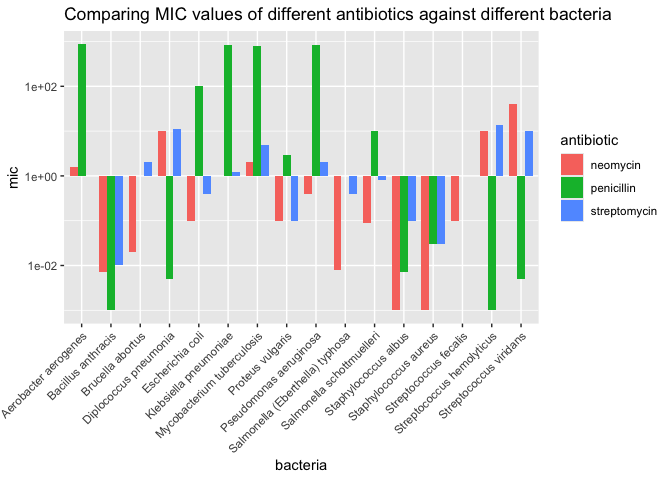
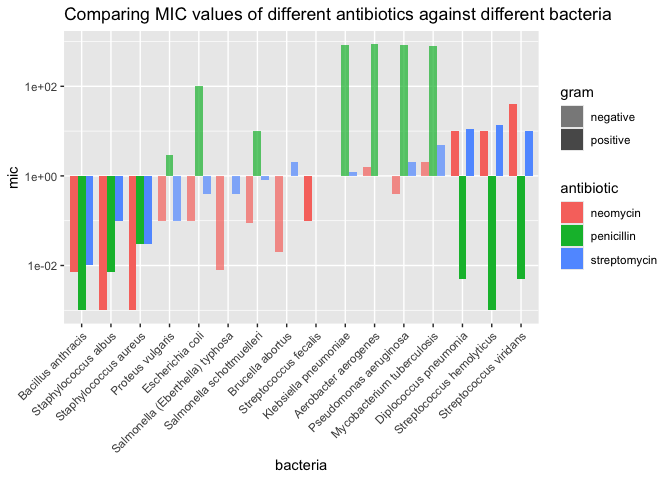
Revise Challenge 5

diff --git a/data-science-curriculum-build-2/challenges/c05-antibiotics-assignment.md b/data-science-curriculum-build-2/challenges/c05-antibiotics-assignment.md
@@ -181,8 +181,9 @@ is Gram positive or negative.
 
 ``` r
 df_antibiotics %>%
-  ggplot(aes(x = penicillin, y = streptomycin, size = neomycin, label = bacteria)) +
+  ggplot(aes(x = penicillin, y = streptomycin, size = neomycin, label = bacteria, color = gram)) +
   geom_point() +
+  scale_color_manual(values = c("#FC4E07", "#52854C")) +
   geom_text_repel(size = 3) +
   scale_x_log10() +
   scale_y_log10() +
@@ -205,10 +206,13 @@ your other visuals.
 df_q12 <- df_antibiotics %>% 
   pivot_longer(cols = c(penicillin, streptomycin, neomycin),
                names_to = "antibiotic",
-               values_to = "mic")
+               values_to = "mic") %>% 
+  mutate(bacteria = fct_reorder(bacteria, mic))
+
 
 df_q12 %>% 
-  ggplot(aes(fill = antibiotic, y= mic, x=bacteria)) +
+  ggplot(aes(fill = antibiotic, y= mic, x=bacteria, alpha = gram)) +
+  scale_alpha_manual(values = c("positive" = 1, "negative" = 0.7)) +
   scale_y_log10() +
   geom_bar(position="dodge", stat="identity", width = 0.8) +
   theme(axis.text.x = element_text(angle = 45, hjust = 1)) +
@@ -227,7 +231,11 @@ Note that your visual must be *qualitatively different* from *all* of
 your other visuals.
 
 ``` r
-df_antibiotics %>% 
+df_13 <- df_antibiotics %>% 
+  mutate(bacteria = fct_reorder(bacteria, penicillin))
+  
+
+df_13 %>% 
   ggplot(aes(x= bacteria, y = penicillin)) +
   geom_point() +
   theme(axis.text.x = element_text(angle = 45, hjust = 1)) +
@@ -256,8 +264,7 @@ df_long <- df_antibiotics %>%
 
 df_long %>% 
   ggplot(aes(x = antibiotic, y = mic, color = antibiotic)) + 
-  geom_boxplot() + 
-  facet_wrap(~antibiotic) + 
+  geom_boxplot() +
   scale_y_log10() +
   theme(legend.position = "none") + 
   labs(x = "Antibiotic", y = "MIC Values") +
@@ -276,12 +283,26 @@ Note that your visual must be *qualitatively different* from *all* of
 your other visuals.
 
 ``` r
-df_antibiotics %>%
-  ggplot(aes(fill = bacteria, x = gram)) + 
-  geom_bar(position = "stack") +
-  geom_text(stat = "count", aes(label = bacteria), position = position_stack(vjust = 0.5), color = "white") +
-  labs(y = "Count", x = "Gram Type") +
-  ggtitle("Comparing the Gram Types of Different bacteria")
+df_q15 <- df_antibiotics %>% 
+  pivot_longer(
+    cols = c(penicillin, streptomycin, neomycin), # Columns to pivot
+    names_to = "antibiotic",
+    values_to = "mic" 
+  )
+
+df_q15 %>% 
+  ggplot(aes(x = antibiotic, y = bacteria)) +
+  geom_tile(aes(fill = mic), color = "white") +
+  scale_fill_gradient(
+    trans = 'log10',                             
+    low = "blue", high = "red"                   
+  ) +
+  labs(
+    title = "Heatmap of MIC Values Across Antibiotics",
+    x = "Antibiotic",
+    y = "Bacteria",
+    fill = "MIC Value"
+  )
 ```
 
 ![](c05-antibiotics-assignment_files/figure-gfm/q1.5-1.png)<!-- -->
@@ -306,13 +327,15 @@ opportunity to think about why this is.**
 > bacteria of different genera and Gram stain?
 
 *Observations* - What is your response to the question above? - The most
-effective antibiotic appears to be neomycin - Which of your visuals
-above (1 through 5) is **most effective** at helping to answer this
-question? - The most effective visual to answer this question was Visual
-2. - Why? - I was able to analyze the effectiveness of each of the
-antibiotics by their position along the x and y axis for streptomycin
-and penicilin - for the third antibiotic i am able to determine the
-effectiveness based on the area of each of the points
+effective antibiotic appears to be neomycin - Streptomycin seems to be
+the next most effective antibiotic, while penicilin seems to be the
+least effective of the three - Which of your visuals above (1 through 5)
+is **most effective** at helping to answer this question? - The most
+effective visual to answer this question was Visual 2. - Why? - I was
+able to analyze the effectiveness of each of the antibiotics by their
+position along the x and y axis for streptomycin and penicilin - for the
+third antibiotic i am able to determine the effectiveness based on the
+area of each of the points
 
 #### Guiding Question 2
 
@@ -328,10 +351,13 @@ Diplococcus pneumoniae was renamed Streptococcus pneumoniae as it was
 found to be more associated with the streptococcus genus - Which of your
 visuals above (1 through 5) is **most effective** at helping to answer
 this question? - Visual 5 was most effective in helping me answer this
-question - Why? - The most common type of bacteria in this dataset that
-were gram positive were the Streptococcus bacteria - the Diplococcus
-pneumoniae bacteria is also gram positive, which means it shares traits
-with Streptococcus bacteria, possibly contributing to its renaming
+question - Why? - The Diplococcus pneumoniae seems to have more similar
+traits to other streptococcus bacteria, as exhibited in visuals 2, 3,
+and 5 - Visual 2 shows that Diploccocus has very similar MIC values for
+the three types of bacteria as other streptococcus bacteria - Visual 3
+shows a similar relationship, this time just for penicilin - Visual 5
+shows that Diploccocus pneumoniae exhibits similar MIC values as other
+streptococus bacteria in the heatmap
 
 # References
 
